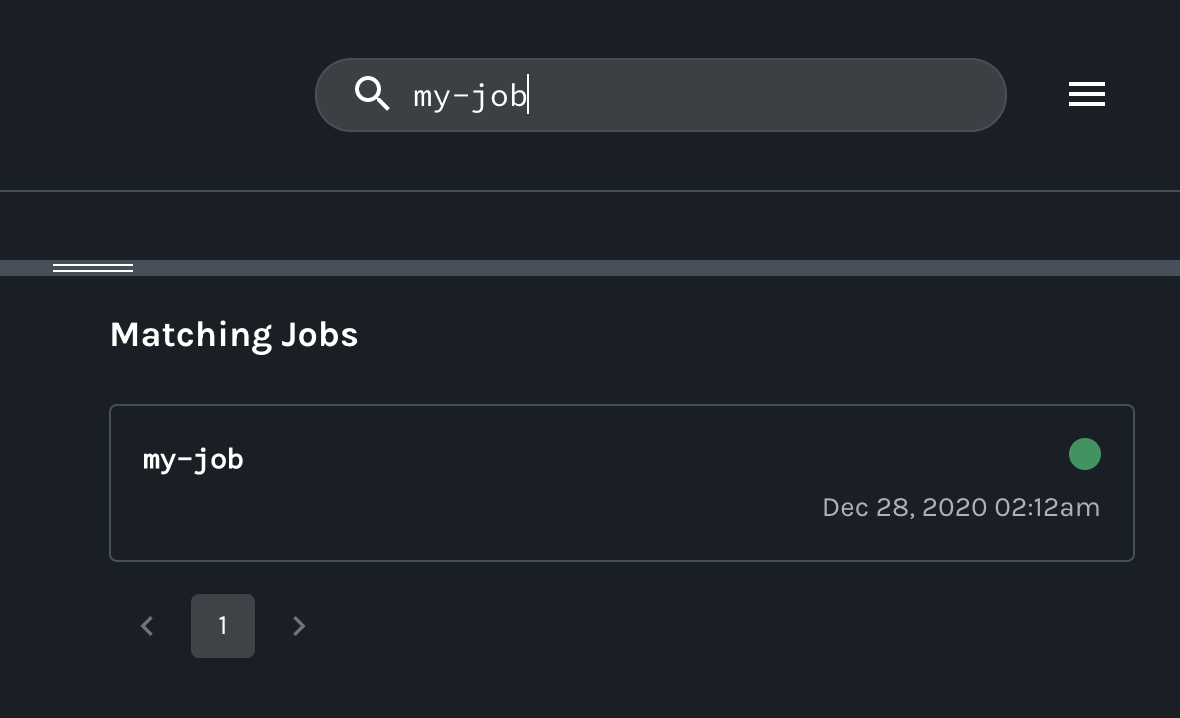
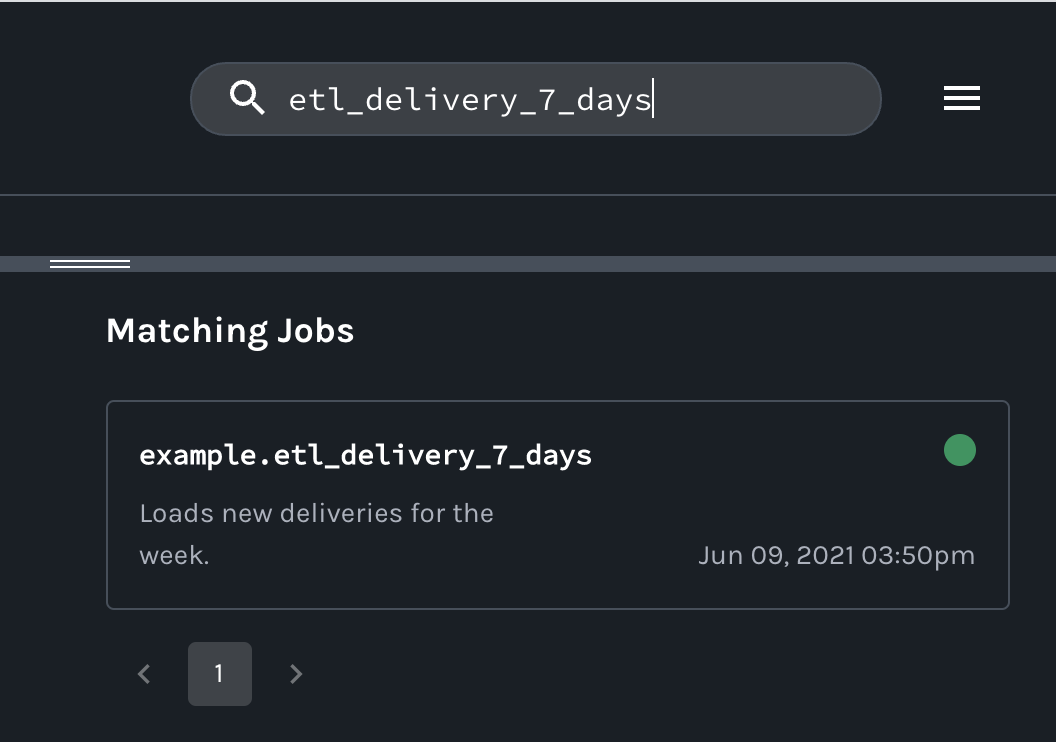
Use food delivery sample metadata in quickstart (#1391)
* Add container names to docker-compose files

* Add default host and port to docker/seed.sh

* Use food deliver meta in quickstart

* Update wording for seeding Marquez step

* continued: Update wording for seeding Marquez step

* Add section on using OL

* Minor wording changes

* Add note on --seed flag

* Add link to marquez talk

* Add OL getting started link

diff --git a/docs/quickstart.md b/docs/quickstart.md
@@ -4,13 +4,14 @@ layout: quickstart
 
 # Quickstart
 
-* [Data Model](#data-model)
+* [Marquez Data Model](#marquez-data-model)
+* [Write Sample Lineage Metadata to Marquez](#write-sample-lineage-metadata-to-marquez)
+* [Explore Sample Lineage Metadata using Marquez](#explore-sample-lineage-metadata-using-marquez)
 * [Collect Run-Level Metadata using OpenLineage](#collect-run-level-metadata-using-openlineage)
-* [View Collected Lineage Metadata](#view-collected-lineage-metadata)
 * [Summary](#summary)
 * [Next Steps](#next-steps)
 
-This guide covers how you can quickly get started collecting _dataset_ and _job_ metadata using Marquez. We'll first introduce you to Marquez’s data model, show how to collect _run-level_ metadata using [OpenLineage](https://github.com/OpenLineage/OpenLineage) events, then explore the lineage graph via the web UI.
+This guide covers how you can quickly get started collecting _dataset_, _job_, and _run_ metadata using Marquez. We'll first introduce you to Marquez’s data model, show how to write sample lineage metadata to a running Marquez instance, then explore the sample lineage metadata via the web UI.
 
 #### PREREQUISITES
 
@@ -19,7 +20,9 @@ Before you begin, make sure you have installed:
 * [Docker 17.05](https://docs.docker.com/install)+
 * [Docker Compose](https://docs.docker.com/compose/install)
 
-#### SETUP
+> Note: In this guide, we'll be running the Marquez HTTP server via Docker.
+
+#### GET MARQUEZ
 
 To checkout the Marquez source code, run:
 
@@ -27,113 +30,49 @@ To checkout the Marquez source code, run:
 $ git clone git@github.com:MarquezProject/marquez.git && cd marquez
 ```
 
-#### RUNNING WITH [DOCKER](https://github.com/MarquezProject/marquez/blob/main/Dockerfile)
+## Marquez Data Model
 
-The easiest way to get up and running is with Docker. From the base of the Marquez repository, run:
+##### METADATA STORAGE
+
+Marquez's _centralized_ data model provides a normalized representation of the end-to-end metadata of your pipelines (composed of multiple jobs) with built-in metadata versioning support. The data model also enables highly flexible data lineage queries across all datasets, while reliably and efficiently associating (_upstream_, _downstream_) dependencies between jobs and the datasets they produce and consume. We encourage you to familiarize yourself with the data model below:
+
+<figure align="center">
+  <img src="./assets/images/metadata-storage.png">
+</figure>
+
+> **Figure 1:** Marquez's metadata storage model.
+
+The above data model generalizes very well when you start collecting basic metadata from multiple sources, schedulers and/or data processing frameworks. With metadata changes tracked, you can easily, for example, query the history of schema changes for a given dataset and compare a _previous_ schema version with the _latest_ schema version. Note this is especially useful for auditing or troubleshooting impacted jobs downstream of a schema change.
+
+##### METADATA VERSIONING
+
+<figure align="center">
+  <img src="./assets/images/metadata-versioning.png">
+</figure>
+
+> **Figure 2:** Marquez's metadata versioning model.
+
+Run-level metadata is tracked via HTTP API calls to `/lineage` using [OpenLineage](https://github.com/OpenLineage/OpenLineage). A **run** has a unique ID and records it's code version, inputs and outputs, run args, and run state transitions. When a run transitions to a **complete** state, the output datasets for the run are created if not already registered with Marquez. A **dataset** _version_ pointer is present for each input and output dataset and maintained by Marquez keeping track of the historical set of metadata changes. Each _immutable_ dataset version is mapped to a metadata change and the run ID that modifyed the dataset preserving it's state at some given point in time. A **job** _version_ pointer is also present and mapped to a unique referenceable link to code, the _latest_ run ID, and one or more versioned input and output datasets.
+
+## Write Sample Lineage Metadata to Marquez
+
+In this example, we'll be using sample dataset, job, and run metadata for a hypothetical _Food Delivery_ website. The sample metadata consists of hourly and daily ETL jobs that query tables in a `postgres` database used for reporting and analytics. So, let's get started!
+
+To start Marquez with sample metadata that will be used and referenced in later sections, run the following script from the base of the Marquez repository (the `--seed` flag will execute the `marquez seed` [command](https://github.com/MarquezProject/marquez/blob/main/api/src/main/java/marquez/cli/SeedCommand.java)):
 
 ```
-$ ./docker/up.sh
+$ ./docker/up.sh --seed
 ```
 
 > **Tip:** Use the `--build` flag to build images from source, or `--pull` to pull a tagged image.
 
-To view the Marquez UI and verify it's running, open http://localhost:3000. The UI enables you to discover dependencies between jobs and the datasets they produce and consume via the lineage graph, view run-level metadata of current and previous job runs, and much more! 
+To view the Marquez UI and verify it's running, open [http://localhost:3000](http://localhost:3000). The UI enables you to discover dependencies between jobs and the datasets they produce and consume via the lineage graph, view run-level metadata of current and previous job runs, and much more!
 
-## Data Model
-
-Marquez's _centralized_ data model provides a normalized representation of the end-to-end metadata of your pipelines (composed of multiple jobs) with built-in metadata versioning support. The data model also enables highly flexible data lineage queries across all datasets, while reliably and efficiently associating (_upstream_, _downstream_) dependencies between jobs and the datasets they produce and consume. We encourage you to familiarize yourself with the [data model](https://marquezproject.github.io/marquez/#data-model) below:
-
-<figure align="center">
-  <img src="./assets/images/model.png">
-</figure>
-
-The above data model generalizes very well when you start collecting basic metadata from multiple sources, schedulers and/or data processing frameworks. With metadata changes tracked, you can easily, for example, query the history of schema changes for a given dataset and compare a _previous_ schema version with the _latest_ schema version. Note this is especially useful for auditing or troubleshooting impacted jobs downstream of a schema change.
-
-## Collect Run-Level Metadata using OpenLineage
-
-Run-level metadata is tracked via HTTP API calls to `/lineage`. A **run** has a unique ID and records it's code version, inputs and outputs, run args, and run state transitions. When a run transitions to a **complete** state, the output datasets for the run are created if not already registered with Marquez. A dataset _version_ pointer is also present for each output dataset and maintained by Marquez keeping track of the historical set of metadata changes. Each dataset version is mapped to a metadata change and the run ID that modifyed the dataset preserving it's state at some given point in time.
-
-In this example, we show how you can collect dataset and job metadata using Marquez. Using the [LineageAPI](https://marquezproject.github.io/marquez/openapi.html#tag/Lineage), metadata will be collected as OpenLineage events using the run ID `d46e465b-d358-4d32-83d4-df660ff614dd`. The run ID will enable the tracking of run-level metadata over time for the job `my-job`. So, let's get started!
-
-> **Note:** The example shows how to collect metadata via direct HTTP API calls using `curl`. But, you can also get started using our client library for [Java](https://github.com/MarquezProject/marquez/tree/main/clients/java) or [Python](https://github.com/MarquezProject/marquez/tree/main/clients/python).
-
-#### STEP 1: START A RUN
-
-Use `d46e465b-d358-4d32-83d4-df660ff614dd` to **start** the run for `my-job` with `my-input` as the input dataset:
-
-##### REQUEST
-
-```bash
-$ curl -X POST http://localhost:5000/api/v1/lineage \
-  -H 'Content-Type: application/json' \
-  -d '{
-        "eventType": "START",
-        "eventTime": "2020-12-28T19:52:00.001+10:00",
-        "run": {
-          "runId": "d46e465b-d358-4d32-83d4-df660ff614dd"
-        },
-        "job": {
-          "namespace": "my-namespace",
-          "name": "my-job"
-        },
-        "inputs": [{
-          "namespace": "my-namespace",
-          "name": "my-input"
-        }],  
-        "producer": "https://github.com/OpenLineage/OpenLineage/blob/v1-0-0/client"
-      }'
-```
-
-##### RESPONSE
-
-**`201 CREATED`**
-
-#### STEP 2: COMPLETE A RUN
-
-Use `d46e465b-d358-4d32-83d4-df660ff614dd` to **complete** the run for `my-job` with `my-output` as the output dataset. We also specify the [`schema` facet](https://github.com/OpenLineage/OpenLineage/blob/main/spec/OpenLineage.md#dataset-facets) to collect the schema for `my-output` before marking the run as completed. Note, you don't have to specify the input dataset `my-input` again since it already has been associated with the run ID:
-
-##### REQUEST
-
-```bash
-$ curl -X POST http://localhost:5000/api/v1/lineage \
-  -H 'Content-Type: application/json' \
-  -d '{
-        "eventType": "COMPLETE",
-        "eventTime": "2020-12-28T20:52:00.001+10:00",
-        "run": {
-          "runId": "d46e465b-d358-4d32-83d4-df660ff614dd"
-        },
-        "job": {
-          "namespace": "my-namespace",
-          "name": "my-job"
-        },
-        "outputs": [{
-          "namespace": "my-namespace",
-          "name": "my-output",
-          "facets": {
-            "schema": {
-              "_producer": "https://github.com/OpenLineage/OpenLineage/blob/v1-0-0/client",
-              "_schemaURL": "https://github.com/OpenLineage/OpenLineage/blob/v1-0-0/spec/OpenLineage.json#/definitions/SchemaDatasetFacet",
-              "fields": [
-                { "name": "a", "type": "VARCHAR"},
-                { "name": "b", "type": "VARCHAR"}
-              ]
-            }
-          }
-        }],     
-        "producer": "https://github.com/OpenLineage/OpenLineage/blob/v1-0-0/client"
-      }'
-```
-
-##### RESPONSE
-
-**`201 CREATED`**
-
-## View Collected Lineage Metadata
+## Explore Sample Lineage Metadata using Marquez
 
 ##### SEARCH JOB METADATA
 
-To view lineage metadata collected by Marquez, browse to the UI by visiting http://localhost:3000. Then, use the search bar in the upper right-side of the page and search for the job `my-job`. To view lineage metadata for `my-job`, click on the job from the drop-down list:
+To view lineage metadata collected by Marquez, browse to the UI by visiting [http://localhost:3000](http://localhost:3000). Then, use the search bar in the upper right-side of the page and search for the job `etl_delivery_7_days`. To view lineage metadata for `etl_delivery_7_days`, click on the job from the drop-down list:
 
 <figure align="center">
   <img src="./assets/images/search-view-job.png">
@@ -141,7 +80,7 @@ To view lineage metadata collected by Marquez, browse to the UI by visiting http
 
 ##### VIEW JOB METADATA
 
-You should see the job `namespace`, `name`, `my-input` as an input dataset and `my-output` as an output dataset in the lineage graph and the job run marked as `COMPLETED `: 
+You should see the job `namespace`, `name`, `input` and `output` datasets, and the job run marked as `COMPLETED`: 
 
 <figure align="center">
   <img src="./assets/images/tab-view-job-completed.png">
@@ -149,18 +88,27 @@ You should see the job `namespace`, `name`, `my-input` as an input dataset and `
 
 ##### VIEW INPUT DATASET METADATA
 
-Finally, click on the output dataset `my-output` for `my-job`. You should see the dataset `name`, `schema`, and `description`:
+Finally, click on the output dataset `public.delivery_7_days` for `etl_delivery_7_days`. You should see the dataset `name`, `schema`, and `description`:
 
 <figure align="center">
   <img src="./assets/images/tab-view-dataset-output.png">
 </figure>
 
+## Collect Run-Level Metadata using OpenLineage
+
+To collect _run-level_ metadata as [OpenLineage](https://github.com/OpenLineage/OpenLineage) events using Marquez as the [HTTP backend](https://github.com/OpenLineage/OpenLineage#scope), see the OpenLineage [getting started](https://openlineage.io/getting-started) guide!
+
 ## Summary
 
-In this simple example, we showed you how to use Marquez to collect dataset and job metadata with OpenLineage. We also walked you through the set of HTTP [API](https://marquezproject.github.io/marquez/openapi.html) calls to successfully mark a run as **complete** and view the lineage metadata collected.
+In this simple example, we showed you how to write sample lineage metadata to a running Marquez instance, then explored the sample lineage metadata for the job `etl_delivery_7_days` via the web UI.
 
 ## Next Steps
 
-* Take a look at our [`Airflow`](https://github.com/MarquezProject/marquez/tree/main/examples/airflow) example to learn how to enable metadata collection for Airflow DAGs and troubleshoot failing DAGs using Marquez.
+* Take a look at our Airflow [example](https://github.com/MarquezProject/marquez/tree/main/examples/airflow) to learn how to enable metadata collection for Airflow DAGs and troubleshoot failing DAGs using Marquez.
 * Listen to [Solving Data Lineage Tracking And Data Discovery At WeWork](https://www.dataengineeringpodcast.com/marquez-data-lineage-episode-111).
 * Listen to [Unlocking The Power of Data Lineage In Your Platform with OpenLineage](https://www.dataengineeringpodcast.com/openlineage-data-lineage-specification-episode-187).
+* Watch [A Metadata Service for Data Abstraction, Data Lineage & Event-based Triggers](https://www.youtube.com/watch?v=dRaRKob-lRQ).
+
+## Feedback
+
+What did you think of this guide? You can reach out to us on [slack](http://bit.ly/MarquezSlack) and leave us feedback, or [open a pull request](https://github.com/MarquezProject/marquez/blob/main/CONTRIBUTING.md#submitting-a-pull-request) with your suggestions!  

diff --git a/README.md b/README.md
@@ -26,13 +26,13 @@ Marquez is an [LF AI & Data Foundation](https://lfaidata.foundation/projects/mar
   <img src="./web/docs/demo.gif">
 </p>
 
-Marquez provides a simple way to collect and view _dataset_ and _job_ metadata. The easiest way to get up and running is with Docker. From the base of the Marquez repository run:
+Marquez provides a simple way to collect and view _dataset_, _job_, and _run_ metadata. The easiest way to get up and running is with Docker. From the base of the Marquez repository run:
 
 ```
 $ ./docker/up.sh
 ```
 
-> **Tip:** Use the `--build` flag to build images from source, and/or `--seed` to load with seed data.
+> **Tip:** Use the `--build` flag to build images from source, and/or `--seed` to start Marquez with sample lineage metadata. For a more complete example using the sample metadata, please follow our [quickstart](https://marquezproject.github.io/marquez/quickstart.html) guide.
 
 **`WEB UI`**
 
@@ -40,7 +40,7 @@ You can open http://localhost:3000 to begin exploring the web UI. The UI enables
 
 **`HTTP API`**
 
-The [HTTP API](https://marquezproject.github.io/marquez/openapi.html) listens on port `5000` for all calls and port `5001` for the admin interface. The admin interface exposes helpful endpoints like `/healthcheck` and `/metrics`. To verify the HTTP API server is running and listening on localhost browse to http://localhost:5001.
+The [HTTP API](https://marquezproject.github.io/marquez/openapi.html) listens on port `5000` for all calls and port `5001` for the admin interface. The admin interface exposes helpful endpoints like `/healthcheck` and `/metrics`. To verify the HTTP API server is running and listening on `localhost` browse to http://localhost:5001.
 
 > **Note:** By default, the HTTP API does not require any form of authentication or authorization.
 
